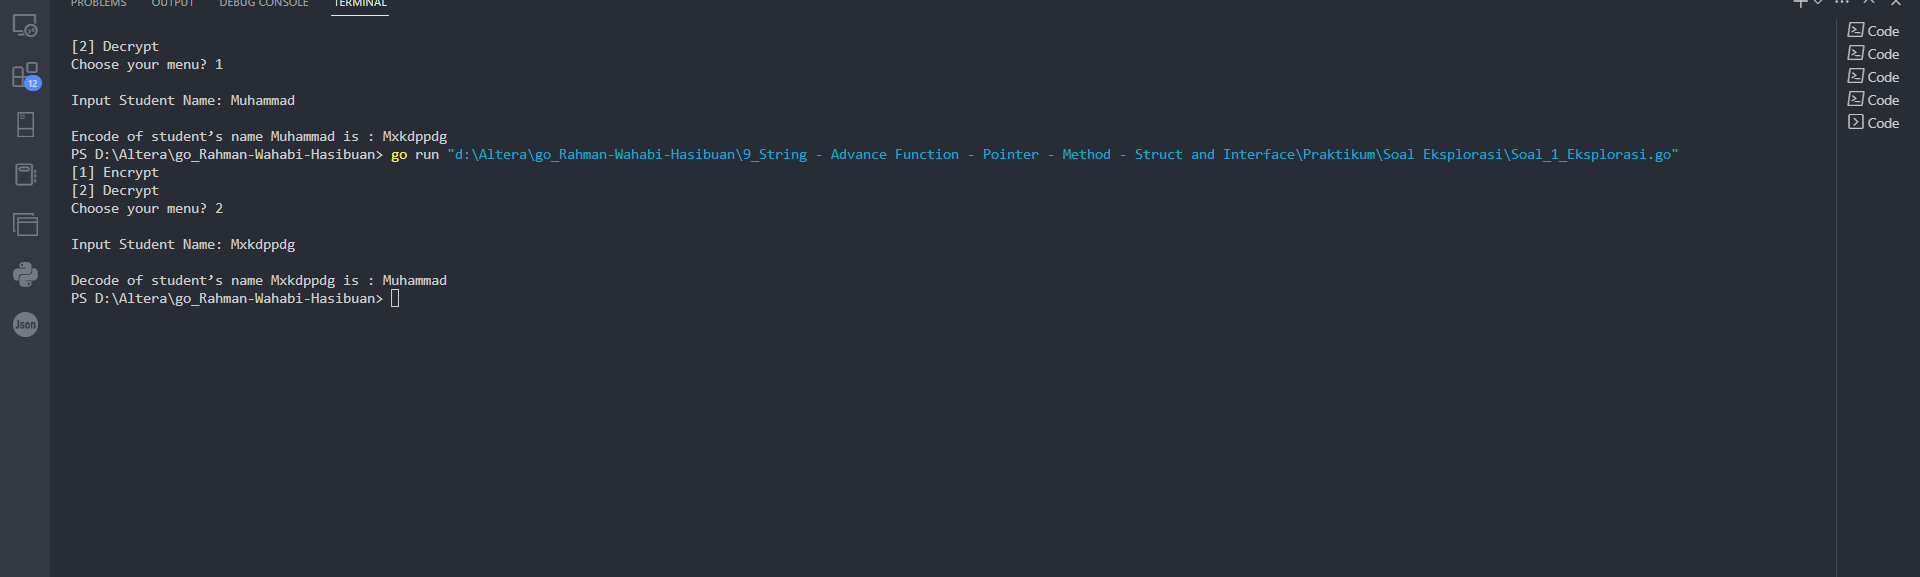
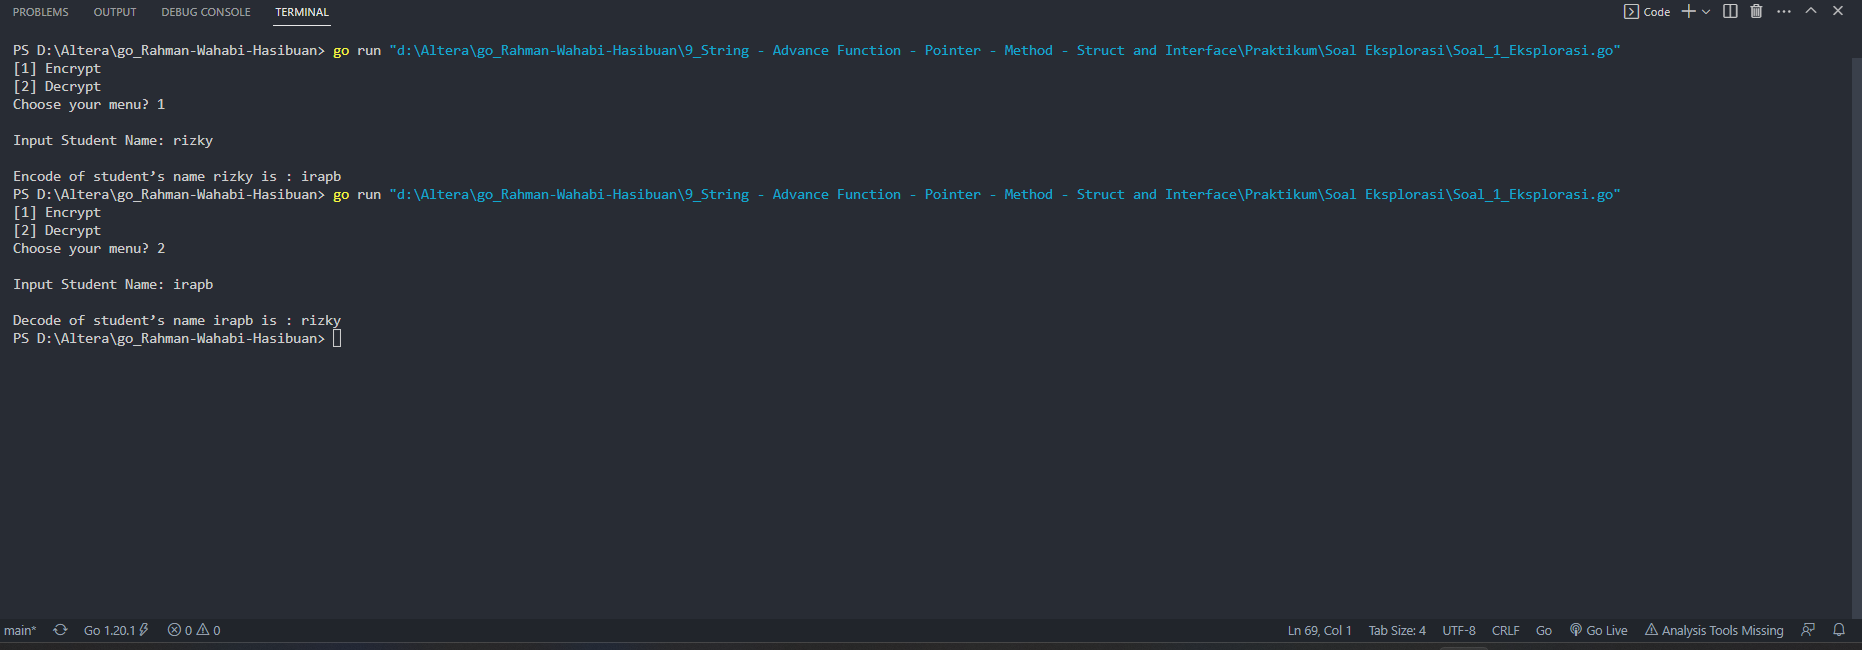
memperbaruhi soal eksplorasi yg diganti shift alfabetnya yg dari defghijklmnopqrstuvwxyzabc menjadi zyxwvutsrqponmlkjihgfedcba

diff --git a/9_String - Advance Function - Pointer - Method - Struct and Interface/Praktikum/Soal Eksplorasi/Soal_1_Eksplorasi.go b/9_String - Advance Function - Pointer - Method - Struct and Interface/Praktikum/Soal Eksplorasi/Soal_1_Eksplorasi.go
@@ -21,7 +21,9 @@ func (s *student) Encode() string {
 
 	for _, c := range s.name {
 		if c >= 'a' && c <= 'z' {
-			c = 'a' + (c-'a'+3)%26
+			c = 'z' - (c - 'a')
+		} else if c >= 'A' && c <= 'Z' {
+			c = 'Z' - (c - 'A')
 		}
 		nameEncode.WriteRune(c)
 	}
@@ -36,7 +38,9 @@ func (s *student) Decode() string {
 
 	for _, c := range s.nameEncode {
 		if c >= 'a' && c <= 'z' {
-			c = 'a' + (c-'a'+23)%26
+			c = 'z' - (c - 'a')
+		} else if c >= 'A' && c <= 'Z' {
+			c = 'Z' - (c - 'A')
 		}
 		nameDecode.WriteRune(c)
 	}
